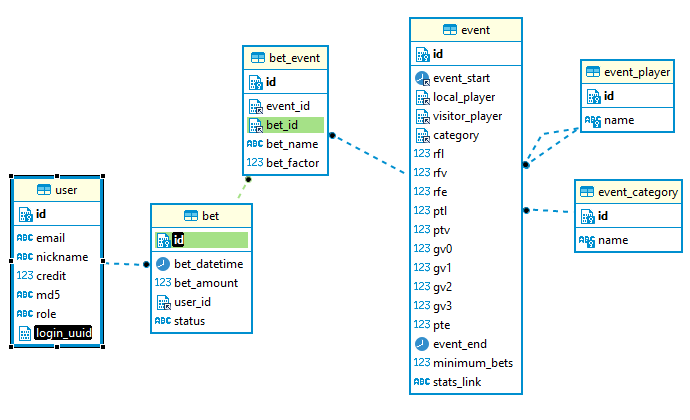
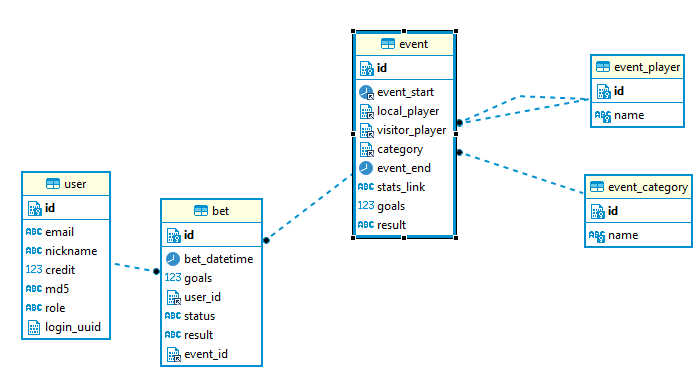
cambio a la base y actualicacion de algunos controladores

diff --git a/backend/sportsbet_server/models.py b/backend/sportsbet_server/models.py
@@ -1,6 +1,6 @@
 import email
 from sportsbet_server.config import db, ma
-from sqlalchemy.dialects.mysql import BINARY, DECIMAL, DATETIME, INTEGER, TEXT, VARCHAR
+from sqlalchemy.dialects.mysql import BINARY, DECIMAL, DATETIME, INTEGER
 from sqlalchemy import types
 from sqlalchemy.dialects.mysql.base import MSBinary
 from sqlalchemy.schema import Column
@@ -32,22 +32,21 @@ class UUID(types.TypeDecorator):
 
 class Event(db.Model):
     __tablename__ = "event"
-    id = db.Column(UUID, primary_key=True)
+    id = db.Column(UUID, primary_key=True, default=uuid.uuid1())
     event_start = db.Column(DATETIME)
     event_end = db.Column(DATETIME)
-    local_player = db.Column(BINARY(16))
-    visitor_player = db.Column(BINARY(16))
-    category = db.Column(BINARY(16))
-    flv = db.Column(DECIMAL(6,4))
-    rfv = db.Column(DECIMAL(6,4))
-    ptl = db.Column(DECIMAL(6,4))
-    pte = db.Column(DECIMAL(6,4))
-    gv0 = db.Column(DECIMAL(6,4))
-    gv1 = db.Column(DECIMAL(6,4))
-    gv2 = db.Column(DECIMAL(6,4))
-    gv3 = db.Column(DECIMAL(6,4))
+    local_player = db.Column(UUID)
+    visitor_player = db.Column(UUID)
+    category = db.Column(UUID)
+    goals = db.Column(INTEGER)
+    result = db.Column(db.String)
     minimum_bets = db.Column(INTEGER)
-    stats_link = db.Column(TEXT)
+    stats_link = db.Column(db.String)
+
+class EventSchema(ma.SQLAlchemyAutoSchema):
+    class Meta:
+        model = Event
+        load_instance = True
 
 class User(db.Model):
     __tablename__ = "user"
@@ -66,12 +65,37 @@ class UserSchema(ma.SQLAlchemyAutoSchema):
 
 class Bet(db.Model):
     __tablename__ = "bet"
-    id = db.Column(BINARY(16), primary_key=True)
+    id = db.Column(UUID, primary_key=True, default=uuid.uuid1())
+    bet_datetime = db.Column(DATETIME)
+    goals = db.Column(INTEGER)
+    result = db.Column(db.String)
+    user_id = db.Column(UUID)
+    event_id = db.Column(UUID)
+    status = db.Column(db.String)
+
+
+class BetSchema(ma.SQLAlchemyAutoSchema):
+    class Meta:
+        model = Bet
+        load_instance = True
+
 
 class EventPlayer(db.Model):
     __tablename__ = "event_player"
-    id = db.Column(BINARY(16), primary_key=True)
+    id = db.Column(UUID, primary_key=True, default=uuid.uuid1())
+    name = db.Column(db.String)
+
+class EventPlayerSchema(ma.SQLAlchemyAutoSchema):
+    class Meta:
+        model = EventPlayer
+        load_instance = True
 
 class EventCategory(db.Model):
     __tablename__ = "event_category"
-    id = db.Column(BINARY(16), primary_key=True)
+    id = db.Column(UUID, primary_key=True, default=uuid.uuid1())
+    name = db.Column(db.String)
+
+class EventCategorySchema(ma.SQLAlchemyAutoSchema):
+    class Meta:
+        model = EventCategory
+        load_instance = True

diff --git a/backend/sportsbet_server/controllers/event_category_controller.py b/backend/sportsbet_server/controllers/event_category_controller.py
@@ -1,15 +1,67 @@
 import connexion
-import six
-
-from sportsbet_server.models import EventCategory  # noqa: E501
+from flask import make_response, abort
+from sportsbet_server.config import db
+from sportsbet_server.models import EventCategory, EventCategorySchema
+import uuid
 
 def get_event_categories():
-    return {}
+    all_ecs = EventCategory.query.all()
+    ecs_schema = EventCategorySchema(many=True)
+    data = ecs_schema.dump(all_ecs)
+    return data
+
 def add_event_category():
-    return {}
-def get_event_category_by_id(Id):
-    return {}
-def delete_event_category(Id):
-    return {}
-def update_event_category(Id, name):
-    return ()
+    if connexion.request.is_json:
+        ec = connexion.request.get_json()
+    
+    existing_ec = (
+        EventCategory.query.filter(EventCategory.name == ec['name'])
+        .one_or_more()
+    )
+
+    if existing_ec is None:
+        schema = EventCategorySchema()
+        new_ec = schema.load(ec, session=db.session)
+        db.session.add(new_ec)
+        db.session.commit()
+        data = schema.dump(new_ec)
+        make_response(data, 201)
+    else:
+        abort(409, f"Event Category {ec['name']} already exists")
+
+def get_event_category_by_id(id_:str):
+    ec = EventCategory.query.filter(EventCategory.id == uuid.UUID(id_)).one_or_none()
+
+    if ec is not None:
+        data = EventCategorySchema().dump(ec)
+        return make_response(data, 200)
+    else:
+        abort(404, f"EventCategory not found for id: {id_}")
+
+def delete_event_category(id_:str):
+    ec = EventCategory.query.filter(EventCategory.id == uuid.UUID(id_)).one_or_none()
+    if ec is not None:
+        db.session.delete(ec)
+        db.session.commit()
+        return make_response(f"EventCategory {id_} deleted", 200)
+    else:
+        abort(404, f"EventCategory not found for id: {id_}")
+
+def update_event_category(id_:str, name):
+    if connexion.request.is_json:
+        body = EventCategory.from_dict(connexion.request.get_json())
+    
+    existing_ec = (
+        EventCategory.query.filter(EventCategory.id == id)
+        .one_or_none()
+    )
+    if existing_ec is not None:
+        user_schema = EventCategorySchema()
+        update = user_schema.load(existing_ec, session=db.session)
+        update.name = body.name
+        db.session.merge(update)
+        db.session.commit()
+
+        return make_response("Event Category updated", 200)
+    else:
+        abort("invalid Event Category id", 400)

diff --git a/backend/sportsbet_server/controllers/event_player_controller.py b/backend/sportsbet_server/controllers/event_player_controller.py
@@ -1,17 +1,68 @@
 import connexion
-import six
-
-from sportsbet_server import config
-from sportsbet_server.models import (Event)
+from flask import make_response, abort
+from sportsbet_server.config import db
+from sportsbet_server.models import EventPlayer, EventPlayerSchema
+import uuid
 
 
 def get_event_players():
-    return {}
+    all_eps = EventPlayer.query.all()
+    eps_schema = EventPlayerSchema(many=True)
+    data = eps_schema.dump(all_eps)
+    return data
+
 def add_event_player():
-    return {}
-def get_event_player_by_id(Id):
-    return {}
-def delete_event_player(Id):
-    return {}
-def update_event_player(Id, name):
-    return ()
+    if connexion.request.is_json:
+        ep = connexion.request.get_json()
+    
+    existing_ep = (
+        EventPlayer.query.filter(EventPlayer.name == ep['name'])
+        .one_or_more()
+    )
+
+    if existing_ep is None:
+        schema = EventPlayerSchema()
+        new_ep = schema.load(ep, session=db.session)
+        db.session.add(new_ep)
+        db.session.commit()
+        data = schema.dump(new_ep)
+        make_response(data, 201)
+    else:
+        abort(409, f"Event Player {ep['name']} already exists")
+    
+def get_event_player_by_id(id_:str):
+    ep = EventPlayer.query.filter(EventPlayer.id == uuid.UUID(id_)).one_or_none()
+
+    if ep is not None:
+        data = EventPlayerSchema().dump(ep)
+        return make_response(data, 200)
+    else:
+        abort(404, f"EventPlayer not found for id: {id_}")
+
+def delete_event_player(id_:str):
+    ep = EventPlayer.query.filter(EventPlayer.id == uuid.UUID(id_)).one_or_none()
+    if ep is not None:
+        db.session.delete(ep)
+        db.session.commit()
+        return make_response(f"EventPlayer {id_} deleted", 200)
+    else:
+        abort(404, f"EventPlayer not found for id: {id_}")
+    
+def update_event_player(id_:str, name_:str):
+    if connexion.request.is_json:
+        body = EventPlayer.from_dict(connexion.request.get_json())
+    
+    existing_ep = (
+        EventPlayer.query.filter(EventPlayer.id == id)
+        .one_or_none()
+    )
+    if existing_ep is not None:
+        user_schema = EventPlayerSchema()
+        update = user_schema.load(existing_ep, session=db.session).data
+        update.name = body.name
+        db.session.merge(update)
+        db.session.commit()
+
+        return make_response("Event Player updated", 200)
+    else:
+        abort("invalid Event Player id", 400)

diff --git a/backend/sportsbet_server/controllers/user_controller.py b/backend/sportsbet_server/controllers/user_controller.py
@@ -22,11 +22,11 @@ def create_user(user=None):
 
     if existing_user is None:
         schema = UserSchema()
-        new_user = schema.load(user, session=db.session) #.data
+        new_user = schema.load(user, session=db.session)
         db.session.add(new_user)
         db.session.commit()
         data = schema.dump(new_user)
-        return data, 201
+        make_response( data, 201 )
     else:
         abort(409, f"User {user['email']} already exists")
 
@@ -56,7 +56,7 @@ def login_user(email=None, md5=None):
     if existing_user is not None:
         login_uuid = uuid()
         user_schema = UserSchema()
-        update = user_schema.load(existing_user, session=db.session).data
+        update = user_schema.load(existing_user, session=db.session)
         update.login_uuid = login_uuid
         db.session.merge(update)
         db.session.commit()
@@ -75,7 +75,7 @@ def logout_user(email=None, login_uuid=None):
     if existing_user is not None:
         
         user_schema = UserSchema()
-        update = user_schema.load(existing_user, session=db.session).data
+        update = user_schema.load(existing_user, session=db.session)
         update.login_uuid = ""
         db.session.merge(update)
         db.session.commit()
@@ -96,7 +96,7 @@ def update_user(id, body=None):
     )
     if existing_user is not None:
         user_schema = UserSchema()
-        update = user_schema.load(existing_user, session=db.session).data
+        update = user_schema.load(existing_user, session=db.session)
         update.email = body.email
         update.nickname = body.nickname
         update.credit = body.credit

diff --git a/backend/sportsbet_server/controllers/bet_controller.py b/backend/sportsbet_server/controllers/bet_controller.py
@@ -4,7 +4,7 @@ import six
 from sportsbet_server.models import Bet
 
 
-def add_bet(user_id, event_ids, amount, api_key=None):  # noqa: E501
+def add_bet(user_id, event_ids, amount, api_key=None):
     """Add a new bet
 
     Add a new bet # noqa: E501
